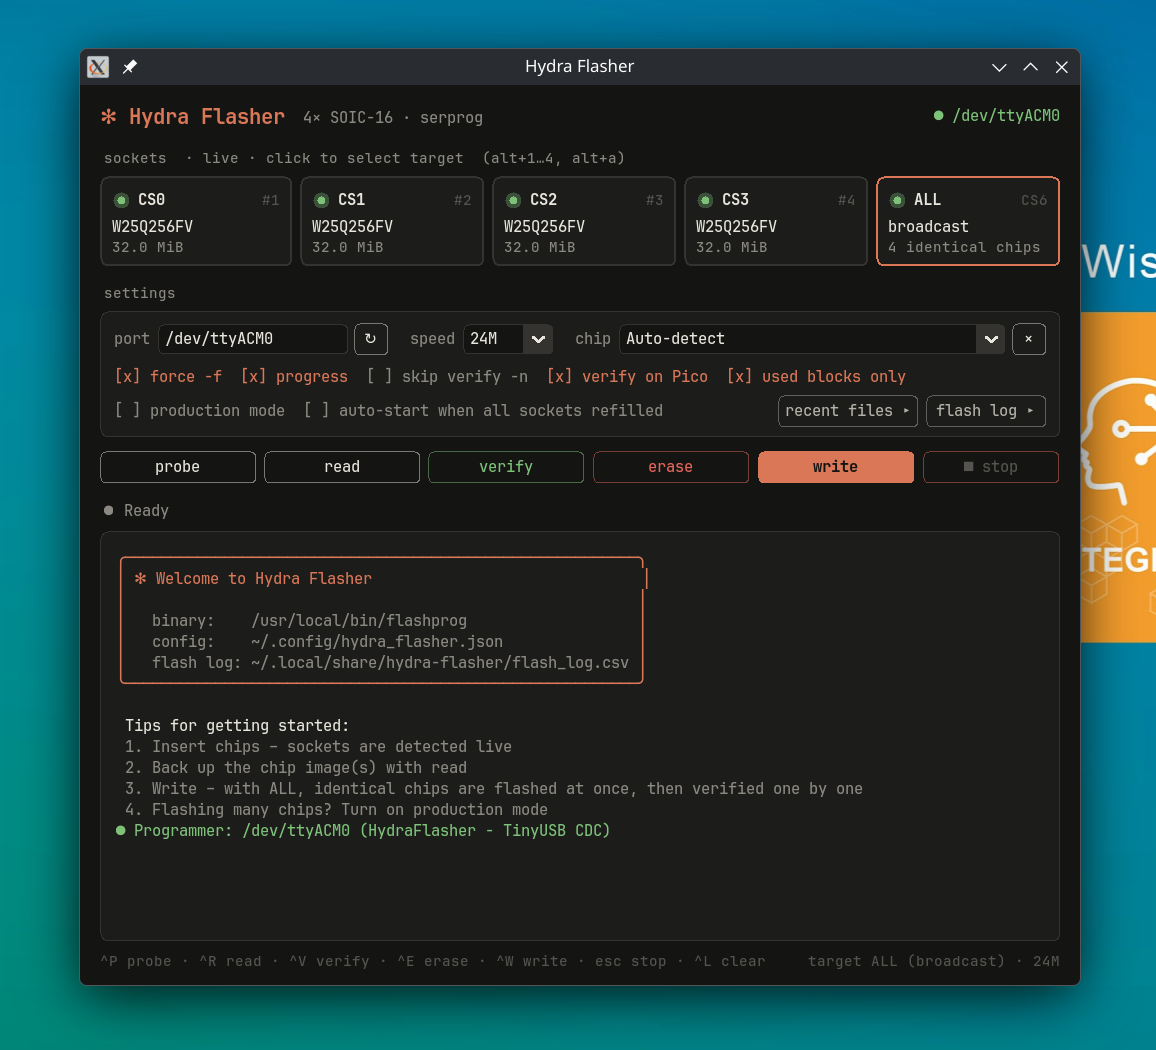
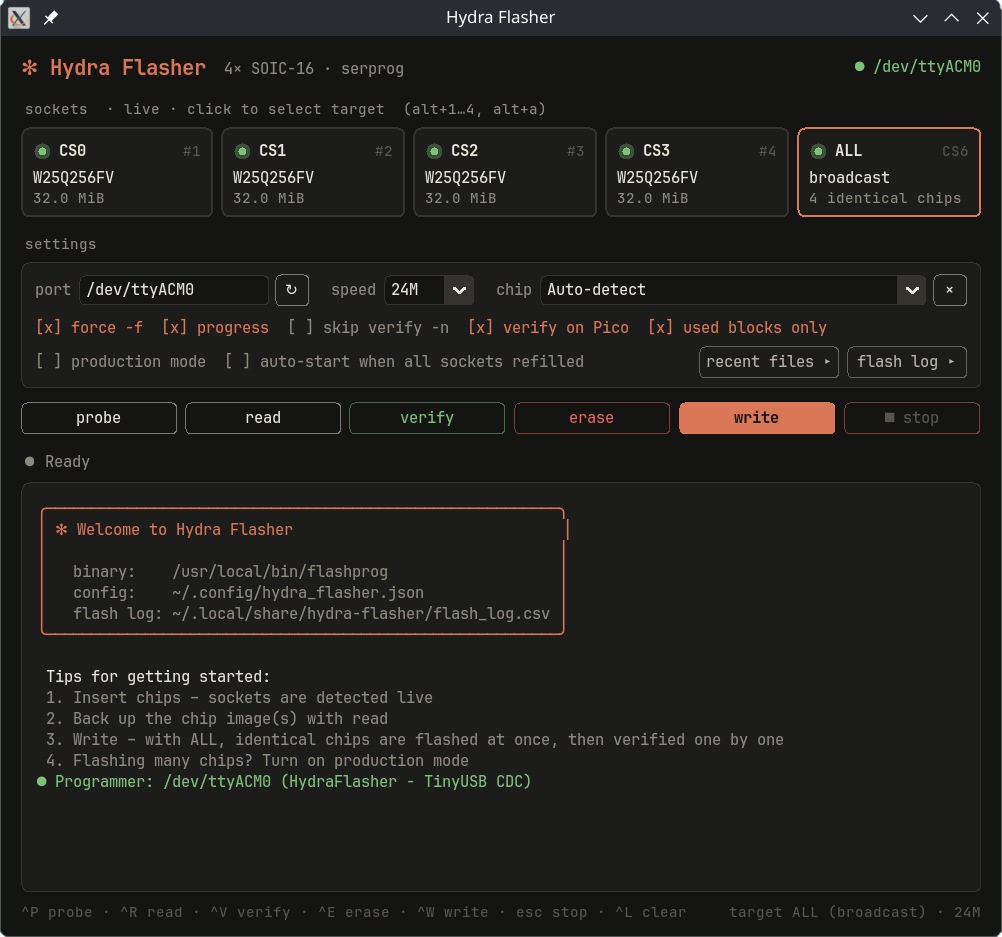
fixed the screenshost fast

diff --git a/README.md b/README.md
@@ -1,6 +1,4 @@
-<p align="center">
-  <img src="screenshot.png" alt="HydraFlasher main window" width="720">
-</p>
+
 
 # HydraFlasher
 
@@ -11,6 +9,10 @@ A desktop GUI for flashing SPI flash chips with [flashprog](https://flashprog.or
 The firmware adds up to six chip-select lines, so one Pico can serve several
 sockets: HydraFlasher scans them live, flashes and verifies each chip, and logs
 every run.
+
+<p align="center">
+  <img src="screenshot.png" alt="HydraFlasher main window" width="520">
+</p>
 
 ## Layout
 
